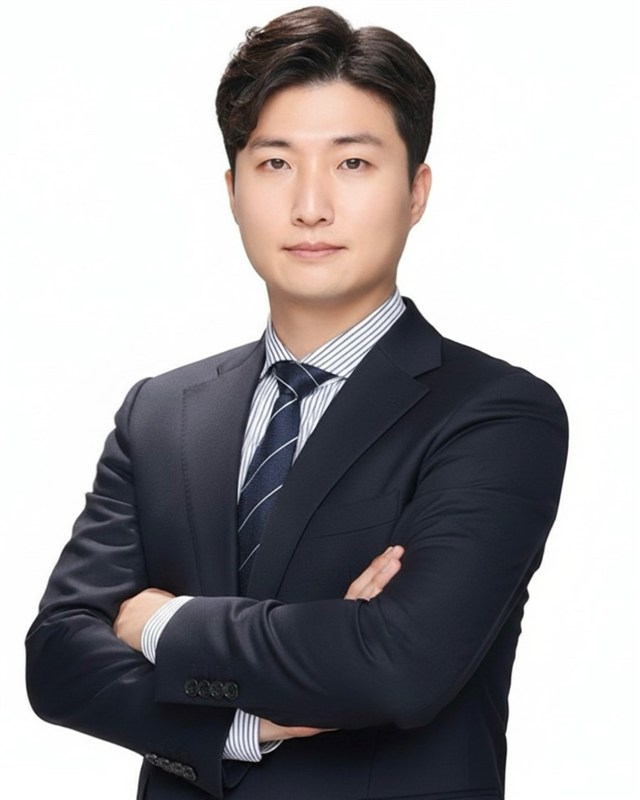
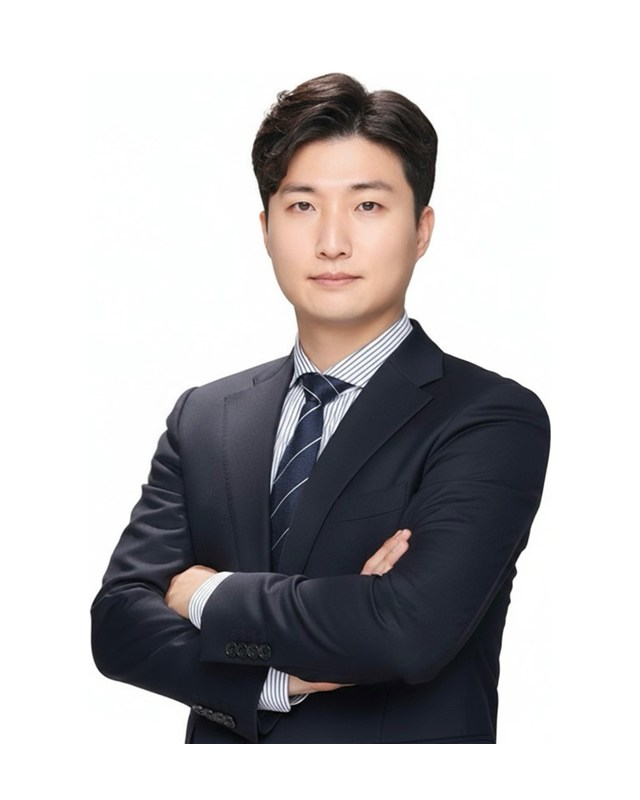
임직원 사진 반영 및 팀카드 인터랙션 개선
- 임직원 6인 실사진 반영(인물 기준 정규화: 동일 크기·여백·흰 배경)
- 팀카드: 기본 흑백 → 마우스오버 시 컬러 전환(iM 방식), 좌측 세로 영문 역할 라벨
- 역할 라벨: 김진배 DEVELOPER, 김현석 AI BUSINESS, 이봄 SALES SUPPORT
- 김현석 직함 '본부장', 팀 표기 공백 정리, 서해리 약력 1줄 삭제
- 고려대 로고를 방패 엠블럼(logo_w)으로 변경
- '사람과 기술' → '기술과 사람' 전 페이지 통일

Changed region(s): [[0.0312, 0.0, 0.9062, 1.0], [0.5312, 0.6562, 0.6562, 0.75], [0.6875, 0.8125, 0.7188, 0.8438]]

diff --git a/src/app/company/team/page.tsx b/src/app/company/team/page.tsx
@@ -1,5 +1,4 @@
 import type { Metadata } from "next";
-import { User } from "lucide-react";
 import { SubPageHero } from "@/components/subpages/SubPageHero";
 import { SectionTitle } from "@/components/subpages/SectionTitle";
 import { InquiryCTA } from "@/components/subpages/InquiryCTA";
@@ -7,7 +6,7 @@ import { InquiryCTA } from "@/components/subpages/InquiryCTA";
 export const metadata: Metadata = {
   title: "임직원 소개 | 주식회사 메타링크",
   description:
-    "사람과 기술을 잇는 메타링크의 사람들. 대표이사 연정욱과 SMB사업본부 임직원을 소개합니다.",
+    "기술과 사람을 잇는 메타링크의 사람들. 대표이사 연정욱과 SMB사업본부 임직원을 소개합니다.",
 };
 
 interface Member {
@@ -33,10 +32,10 @@ const MEMBERS: Member[] = [
     ],
   },
   {
-    label: "AI",
+    label: "AI BUSINESS",
     dept: "SMB사업본부",
     name: "김현석",
-    title: "이사 · AI사업본부 본부장",
+    title: "본부장",
     photo: "/images/team/kim-hyeonseok.jpg",
     career: [
       "前) 리뉴메디칼 마케팅 기획 총괄",
@@ -45,16 +44,16 @@ const MEMBERS: Member[] = [
     ],
   },
   {
-    label: "SUPPORT",
-    dept: "SMB사업본부 · 설치지원팀",
+    label: "DEVELOPER",
+    dept: "SMB사업본부 설치지원팀",
     name: "김진배",
     title: "팀장",
     photo: "/images/team/kim-jinbae.jpg",
     career: ["現) 메타링크 설치지원팀 팀장"],
   },
   {
-    label: "SALES",
-    dept: "SMB사업본부 · 영업지원팀",
+    label: "SALES SUPPORT",
+    dept: "SMB사업본부 영업지원팀",
     name: "이봄",
     title: "팀장",
     photo: "/images/team/lee-bom.jpg",
@@ -66,7 +65,7 @@ const MEMBERS: Member[] = [
   },
   {
     label: "OPERATION",
-    dept: "SMB사업본부 · 운영지원팀",
+    dept: "SMB사업본부 운영지원팀",
     name: "이한나",
     title: "팀장",
     photo: "/images/team/lee-hanna.jpg",
@@ -78,14 +77,13 @@ const MEMBERS: Member[] = [
   },
   {
     label: "MARKETING",
-    dept: "SMB사업본부 · 마케팅팀",
+    dept: "SMB사업본부 마케팅팀",
     name: "서해리",
     title: "팀장",
     photo: "/images/team/seo-haeri.jpg",
     career: [
       "美 상담심리학 석사 / 전문 코칭 자격 보유",
       "前) 유학 컨설팅 기관 운영 총괄 (고객 컨설팅·네트워킹)",
-      "前) 비즈니스 운영 프로세스 기획 및 조직·인사 관리",
       "現) 메타링크 마케팅팀 팀장",
     ],
   },
@@ -93,28 +91,22 @@ const MEMBERS: Member[] = [
 
 function TeamCard({ member }: { member: Member }) {
   return (
-    <article className="flex flex-col overflow-hidden rounded-2xl border border-[#EBEBEB] bg-white">
+    <article className="group flex flex-col overflow-hidden rounded-2xl border border-[#EBEBEB] bg-white">
       {/* 사진 영역 */}
-      <div className="relative aspect-[4/5] overflow-hidden bg-gradient-to-b from-[#EEF2FB] to-[#DEE6F5]">
-        {/* 세로 부서 라벨 */}
+      <div className="relative aspect-[4/5] overflow-hidden bg-white">
+        {/* 인물 사진: 기본 흑백 → 호버 시 컬러 */}
+        <div
+          className="absolute inset-0 bg-cover bg-top bg-no-repeat grayscale transition-[filter] duration-500 ease-out group-hover:grayscale-0"
+          style={{ backgroundImage: `url('${member.photo}')` }}
+        />
+        {/* 세로 영문 역할 라벨 */}
         <span
           aria-hidden
-          className="absolute left-3 top-4 select-none font-bold uppercase leading-none tracking-[3px] text-brand/15 [writing-mode:vertical-rl] md:left-4 md:top-5 md:text-[38px]"
-          style={{ fontSize: "28px" }}
+          className="pointer-events-none absolute left-3 top-4 z-10 select-none font-bold uppercase leading-none tracking-[2px] text-brand/25 [writing-mode:vertical-rl] md:left-4 md:top-5 md:text-[34px]"
+          style={{ fontSize: "24px" }}
         >
           {member.label}
         </span>
-        {/* 플레이스홀더(사진 없을 때) */}
-        <User
-          aria-hidden
-          className="absolute left-1/2 top-1/2 h-20 w-20 -translate-x-1/2 -translate-y-1/2 text-[#C7CEDA]"
-          strokeWidth={1.2}
-        />
-        {/* 실제 사진 (있으면 위에 덮임) */}
-        <div
-          className="absolute inset-0 bg-cover bg-top bg-no-repeat"
-          style={{ backgroundImage: `url('${member.photo}')` }}
-        />
       </div>
 
       {/* 정보 영역 */}
@@ -149,7 +141,7 @@ export default function TeamPage() {
     <>
       <SubPageHero
         title="Our People"
-        description="사람과 기술을 잇는 힘, 메타링크의 사람들을 소개합니다."
+        description="기술과 사람을 잇는 힘, 메타링크의 사람들을 소개합니다."
         bgImage="/images/subpages/svisual-about.jpg"
       />
 

diff --git a/src/app/company/ceo/page.tsx b/src/app/company/ceo/page.tsx
@@ -5,16 +5,16 @@ import { SubPageHero } from "@/components/subpages/SubPageHero";
 export const metadata: Metadata = {
   title: "CEO 소개 | 주식회사 메타링크",
   description:
-    "메타링크 대표이사 연정욱의 CEO 인사말. 사람과 기술, 비즈니스와 미래를 잇는 IT·마케팅 파트너 메타링크를 소개합니다.",
+    "메타링크 대표이사 연정욱의 CEO 인사말. 기술과 사람, 비즈니스와 미래를 잇는 IT·마케팅 파트너 메타링크를 소개합니다.",
 };
 
 const PARAGRAPHS = [
   "안녕하십니까, 주식회사 메타링크 대표이사 연정욱입니다.",
-  "메타링크는 사람과 기술을 잇는 AI·IT·마케팅 전문기업입니다. 우리는 시스템을 만드는 회사가 아니라, 기술을 통해 사람의 일과 기업의 성과를 변화시키는 파트너를 지향합니다. 최신 기술을 앞세우기보다 왜 필요한지, 누구를 위한 기술인지를 먼저 묻고, 사람이 실제로 체감하는 변화를 기술의 기준으로 삼습니다.",
+  "메타링크는 기술과 사람을 잇는 AI·IT·마케팅 전문기업입니다. 우리는 시스템을 만드는 회사가 아니라, 기술을 통해 사람의 일과 기업의 성과를 변화시키는 파트너를 지향합니다. 최신 기술을 앞세우기보다 왜 필요한지, 누구를 위한 기술인지를 먼저 묻고, 사람이 실제로 체감하는 변화를 기술의 기준으로 삼습니다.",
   "이 기준 위에서 메타링크는 AI 콜봇·챗봇과 클라우드형 IPCC, 사내 데이터를 안전하게 활용하는 RAG/LLM, AI를 신뢰할 수 있게 통제·운영하는 AI 거버넌스(GRC)까지, 고객 접점과 업무 현장을 지능적으로 자동화하는 AI 솔루션을 제공합니다.",
   "기술과 마케팅을 분리하지 않는 것도 메타링크의 방식입니다. IT 시스템 구축·운영(SI/SM), 홈페이지·블로그·쇼핑몰 구축, SEO·AEO·GEO 기반의 통합 디지털 마케팅을 하나의 흐름으로 연결해 시스템과 콘텐츠, 운영과 성과가 끊기지 않도록 설계합니다.",
   "이미 다수의 고객사가 메타링크를 선택했고, AI 경영시스템 국제표준(ISO/IEC 42001) 인증과 국방·공공 분야의 수행 경험, 카카오엔터프라이즈·네이버클라우드·AWS 등과의 협력, 고려대학교·한성대학교와의 산학협력을 통해 기술과 신뢰를 함께 쌓아가고 있습니다.",
-  "기술은 계속 진화하지만, 그 기술을 사용하는 주체는 언제나 사람입니다. 메타링크는 사람과 기술, 비즈니스와 미래를 잇는 AI·IT·마케팅 파트너로서 고객의 성장에 끝까지 함께하겠습니다.",
+  "기술은 계속 진화하지만, 그 기술을 사용하는 주체는 언제나 사람입니다. 메타링크는 기술과 사람, 비즈니스와 미래를 잇는 AI·IT·마케팅 파트너로서 고객의 성장에 끝까지 함께하겠습니다.",
   "감사합니다.",
 ];
 
@@ -30,7 +30,7 @@ export default function CeoPage() {
     <>
       <SubPageHero
         title="CEO Message"
-        description="사람과 기술, 비즈니스와 미래를 잇는 IT·마케팅 파트너 메타링크입니다."
+        description="기술과 사람, 비즈니스와 미래를 잇는 IT·마케팅 파트너 메타링크입니다."
         bgImage="/images/subpages/svisual-subsidiary.jpg"
       />
 

diff --git a/src/app/company/about/page.tsx b/src/app/company/about/page.tsx
@@ -10,7 +10,7 @@ import { AwardsCarousel } from "./AwardsCarousel";
 export const metadata: Metadata = {
   title: "회사소개 | 주식회사 메타링크",
   description:
-    "메타링크는 사람과 기술을 잇는 IT·마케팅 전문기업입니다. AI 채팅봇·음성봇, 클라우드형 IPCC, RAG/LLM 기반 생성형 AI, 기업 메시징과 IT SI/SM·디지털 마케팅까지 하나의 흐름으로 연결합니다.",
+    "메타링크는 기술과 사람을 잇는 IT·마케팅 전문기업입니다. AI 채팅봇·음성봇, 클라우드형 IPCC, RAG/LLM 기반 생성형 AI, 기업 메시징과 IT SI/SM·디지털 마케팅까지 하나의 흐름으로 연결합니다.",
 };
 
 export default function AboutPage() {
@@ -18,7 +18,7 @@ export default function AboutPage() {
     <>
       <SubPageHero
         title={"Your Innovative\nAI Partner"}
-        description={"사람과 기술을 잇고, 성과로 증명하는 AI·IT·마케팅 전문기업입니다."}
+        description={"기술과 사람을 잇고, 성과로 증명하는 AI·IT·마케팅 전문기업입니다."}
         bgImage="/images/subpages/svisual-about.jpg"
       />
 
